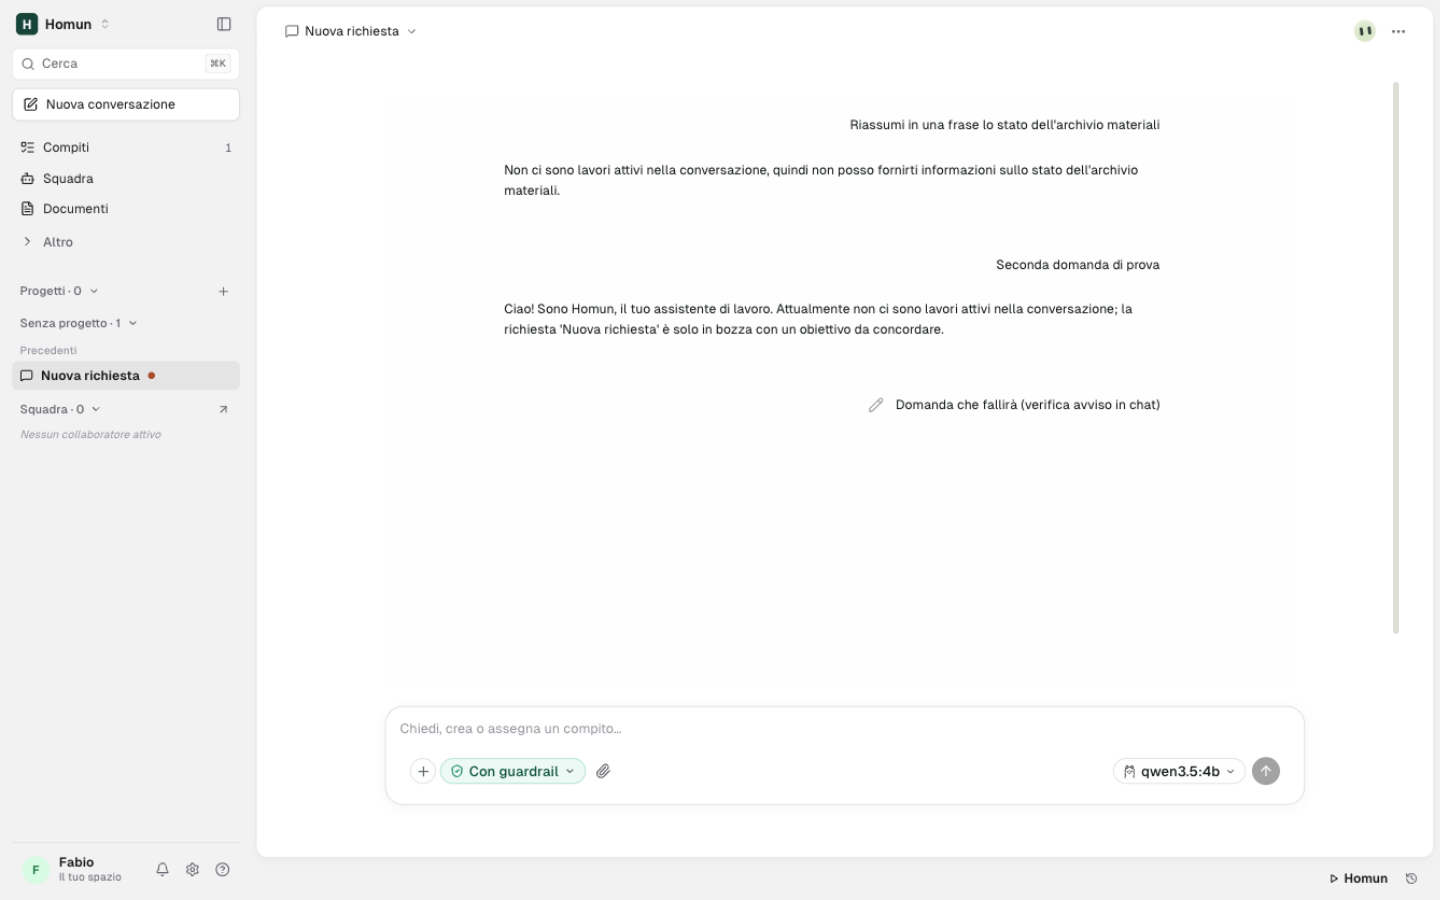
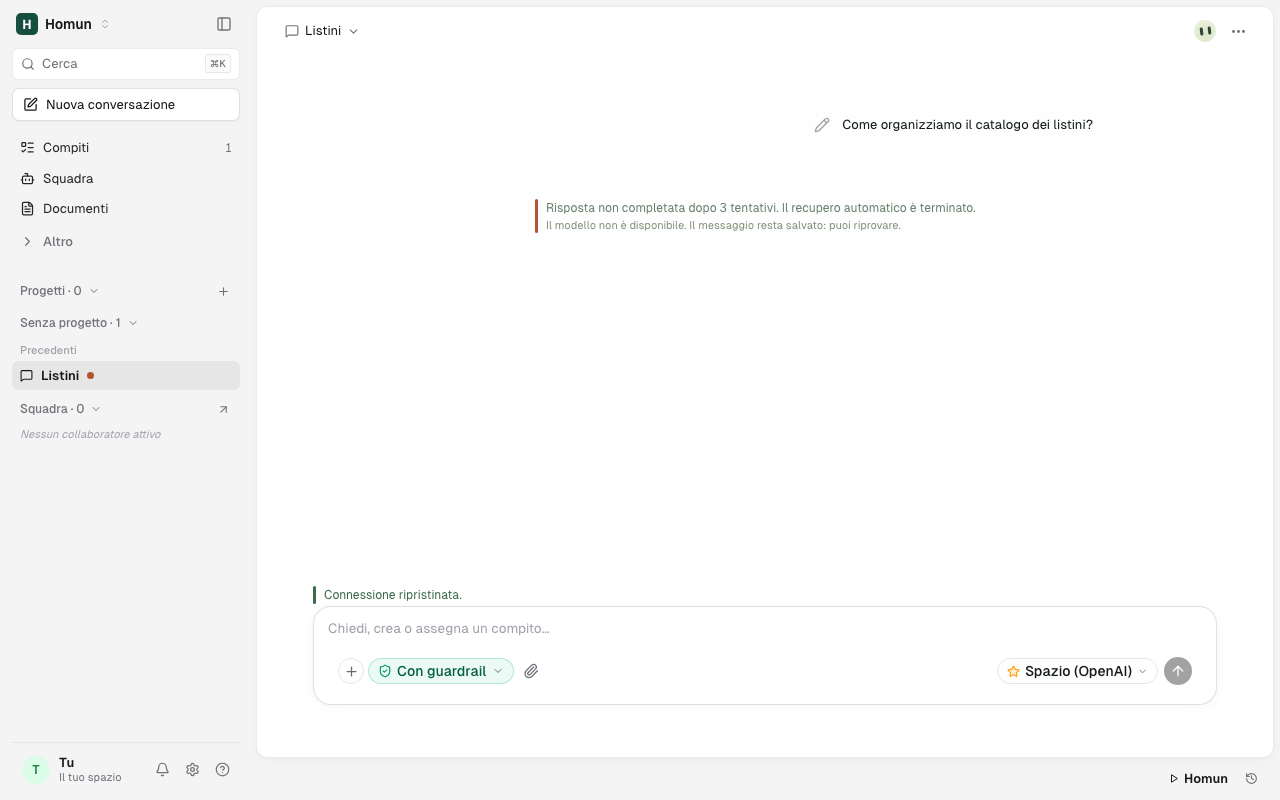
docs: browser verification for the four review fixes
Rifatti e sostituiti gli screenshot 02/05/06/07/08 con il motore reale
su dati temporanei (provider attivo irraggiungibile): avviso unico
compatto con bozza conservata (02), conversazione aperta conservata a
motore fermo (05), followup interrotto visibile in fondo al thread
dentro l'area scorrevole (06), stesso avviso aggiornato a «3 tentativi»
(07), isolamento per conversazione con pallini distinti (08). Nel doc,
una riga per ciascuno su cosa si vede.

diff --git a/docs/research/2026-10-12-status-in-chat.md b/docs/research/2026-10-12-status-in-chat.md
@@ -70,7 +70,37 @@ creata via API `POST /v1/models/connections`): run fallito con
 | 12 | **prima**: `origin/main` a motore fermo | il banner sopra l'area di lavoro (worktree su main, porta 4184) | `12-…png` |
 
 Confronto prima/dopo: `12-…png` (banner su main) contro `02-…png` (avviso
-nel punto in cui si legge e si scrive).
+nel punto in cui si legge e scrive).
+
+## Riverifica dopo le quattro correzioni della revisione — 2026-10-13
+
+Motore reale con `HOMUN_DATA_DIR` temporaneo, provider attivo reso
+irraggiungibile (`POST /v1/models/providers/openai_compatible/credentials`
+con `base_url` su una porta che rifiuta): risposta chat fallita con
+`provider_unavailable`, retry programmato, esaurito dopo 3 tentativi.
+Screenshot sostituiti; per ognuno, la riga di ciò che si vede:
+
+- **02** — Una sola scheda avviso compatta (barra rossa a sinistra, riga
+  «Homun non è raggiungibile su questo computer.», motivo in grigio,
+  dettaglio tipizzato, pill «Riprova»/«Apri modelli» larghe quanto il
+  testo) e la bozza «Bozza da non perdere» conservata nel composer
+  disabilitato.
+- **05** — Conversazione «Listini» aperta a motore fermo: il thread con i
+  SUOI messaggi resta leggibile, sopra il campo di scrittura l'avviso
+  compatto di motore fermo, composer bloccato.
+- **06** — «Risposta interrotta; un nuovo tentativo è programmato.»
+  interamente visibile in fondo al thread, dentro l'area scorrevole (con
+  barra colorata a sinistra).
+- **07** — Lo stesso avviso aggiornato sul posto: «Risposta non completata
+  dopo 3 tentativi. Il recupero automatico è terminato.» con il dettaglio
+  tipizzato «Il modello non è disponibile…» in grigio e barra rossa.
+- **08** — Sidebar con «Listini» (pallino rosso) e «Logs» (pallino
+  arancione); il thread di «Logs» mostra UN solo followup, il suo.
+
+Nota onesta: l'aggiornamento da «interrotta» a «3 tentativi» il web lo
+rilegge ricaricando la conversazione — i retry senza messaggi nuovi non
+emettono eventi SSE che refreshino l'inventario (vedi «notato ma non
+fatto» nella descrizione della PR).
 
 ## Test
 
